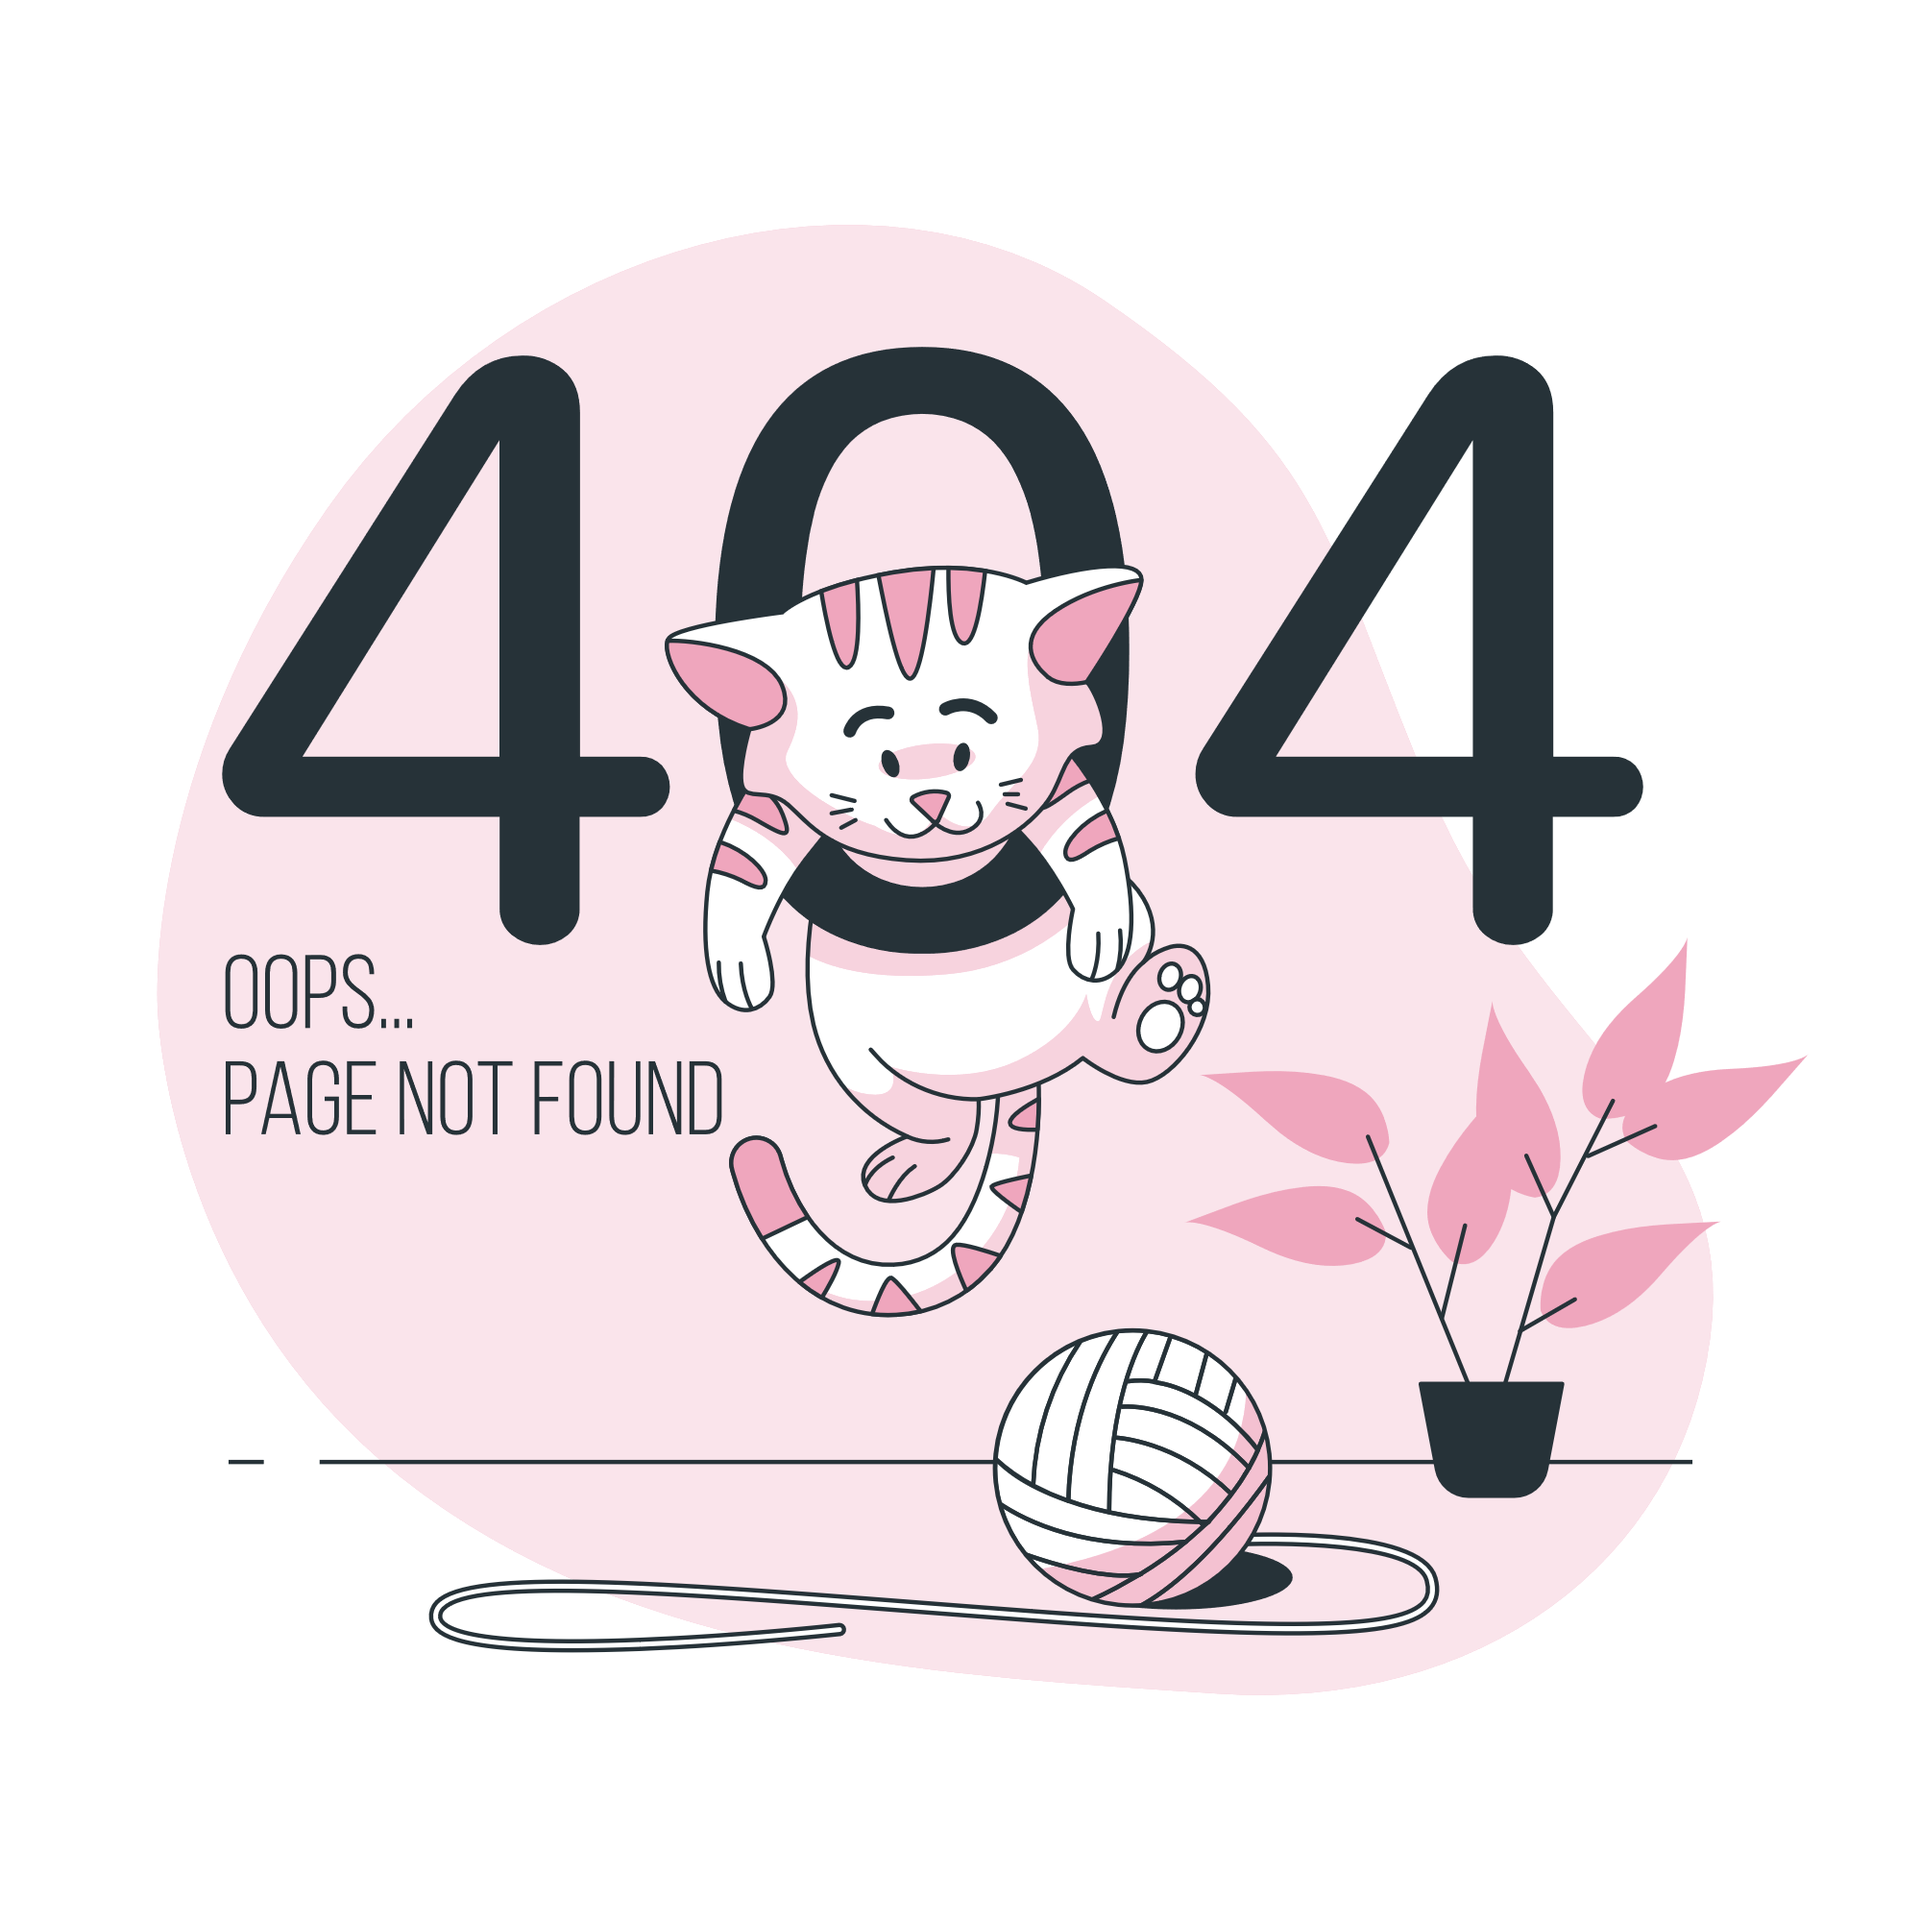
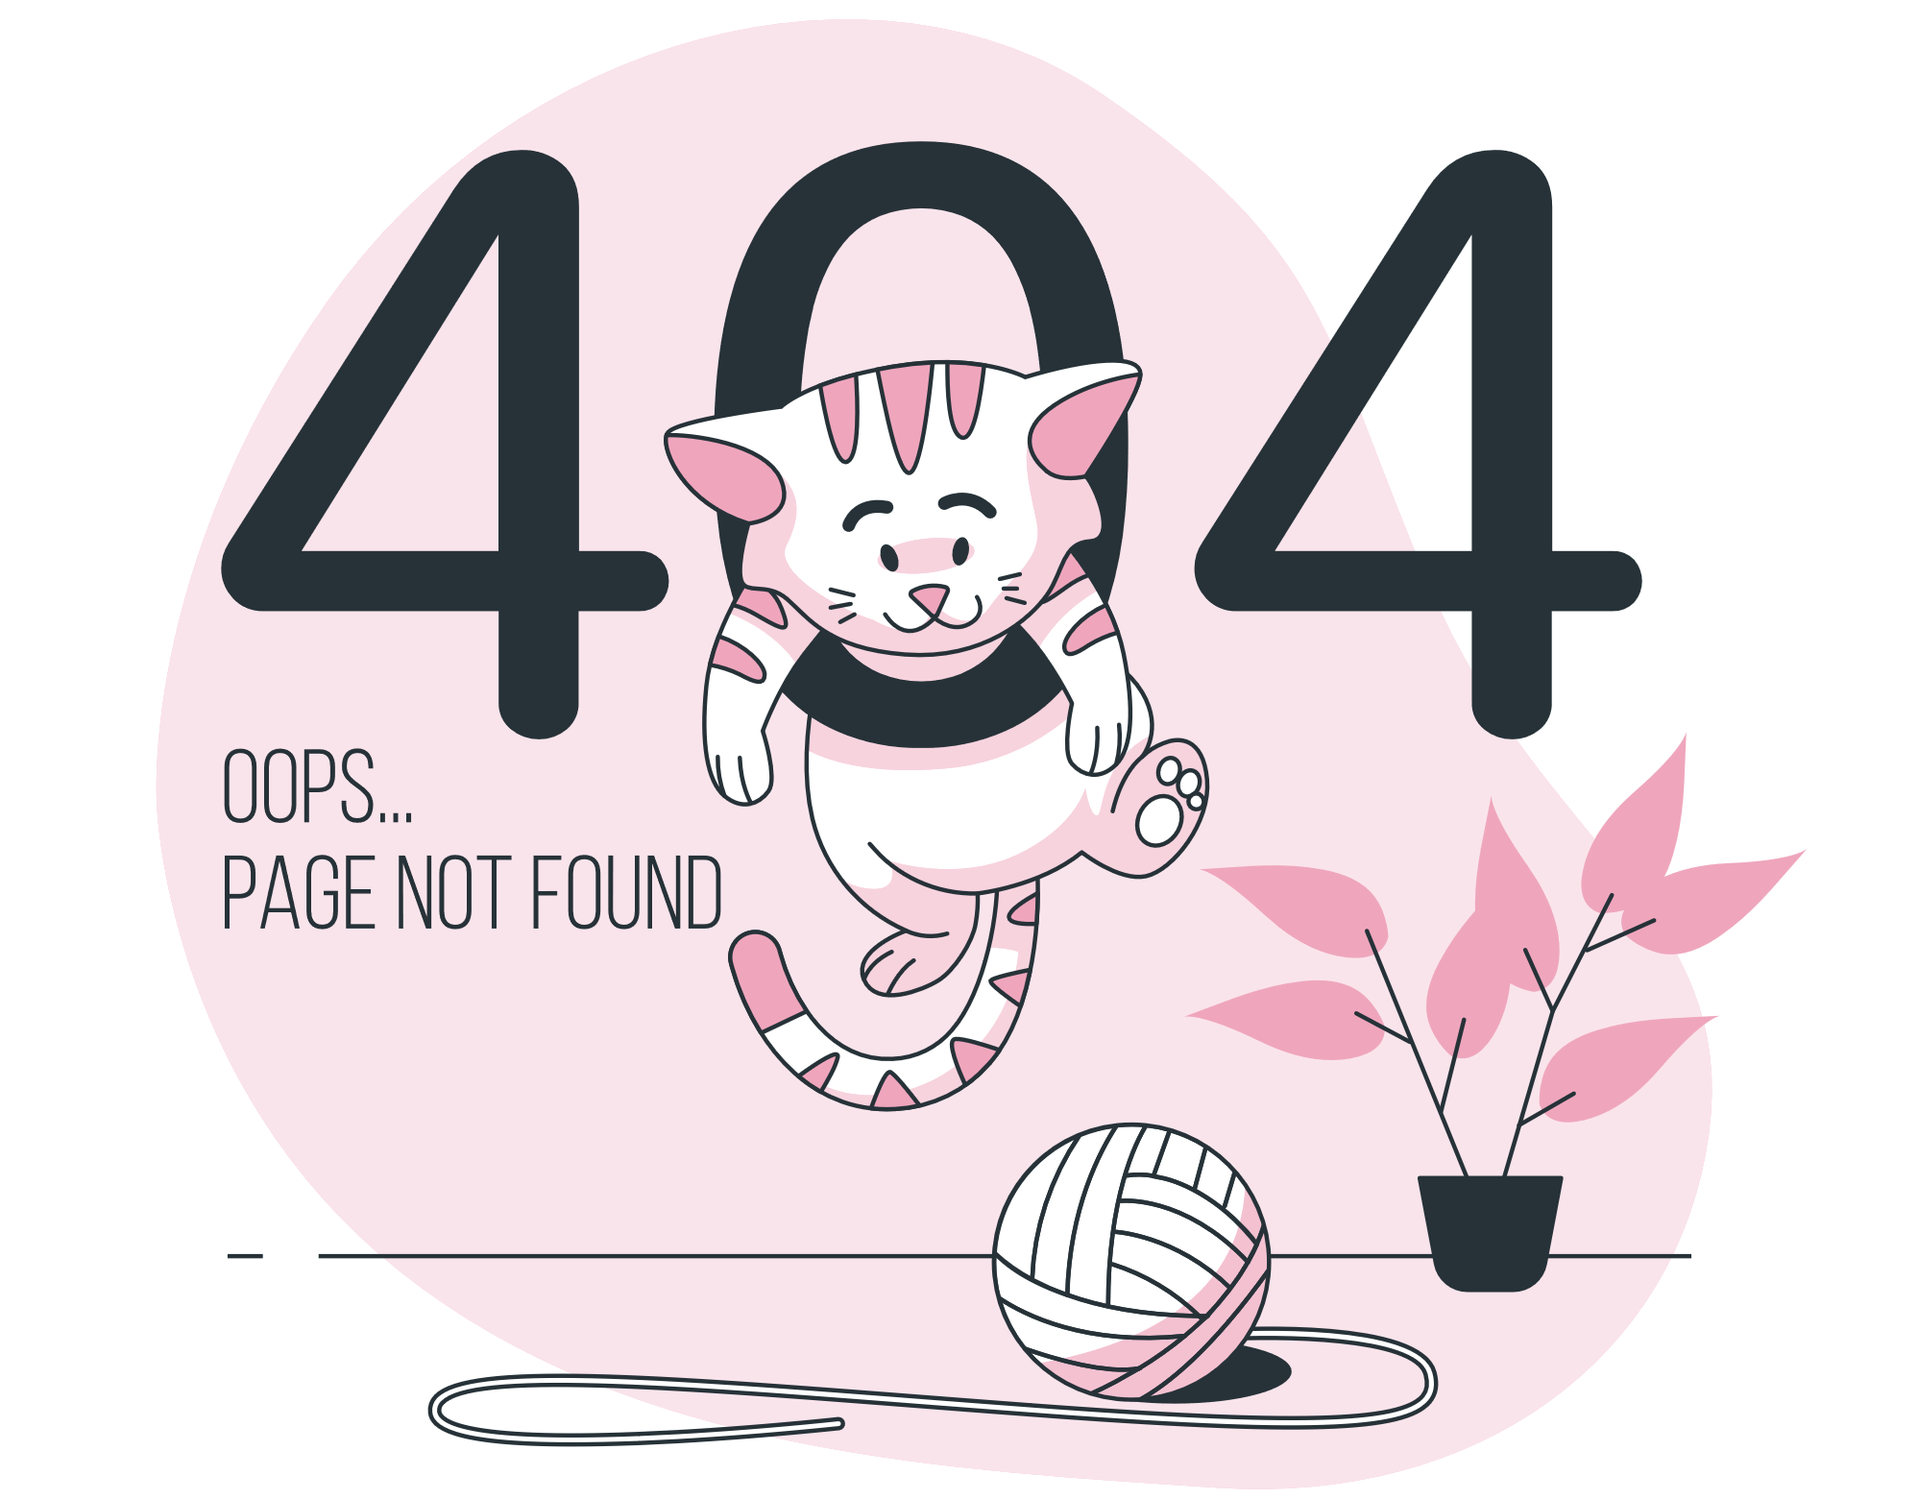
1

diff --git a/CSS/style.css b/CSS/style.css
@@ -679,7 +679,7 @@ textarea:focus {
 }
 #error {
   width: 100%;
-  height: 70vh;
+  height: auto;
   background-color: #ebc5ce;
 }
 #error section h2, #error section .h2 {
@@ -695,7 +695,7 @@ textarea:focus {
 }
 #error section div h2, #error section div .h2 {
   position: absolute;
-  top: 25%;
+  top: 20%;
   width: 100%;
   text-align: center;
   font-size: 2.5rem;

diff --git a/SCSS/_error404.scss b/SCSS/_error404.scss
@@ -1,6 +1,6 @@
 #error {
   width: 100%;
-  height: 70vh;
+  height: auto;
   background-color: $color-fondo;
 
   section {
@@ -16,7 +16,7 @@
       position: relative;
     h2 {
         position: absolute;
-        top: 25%;
+        top: 20%;
         width: 100%;
         text-align: center;
         font-size: 2.5rem;
